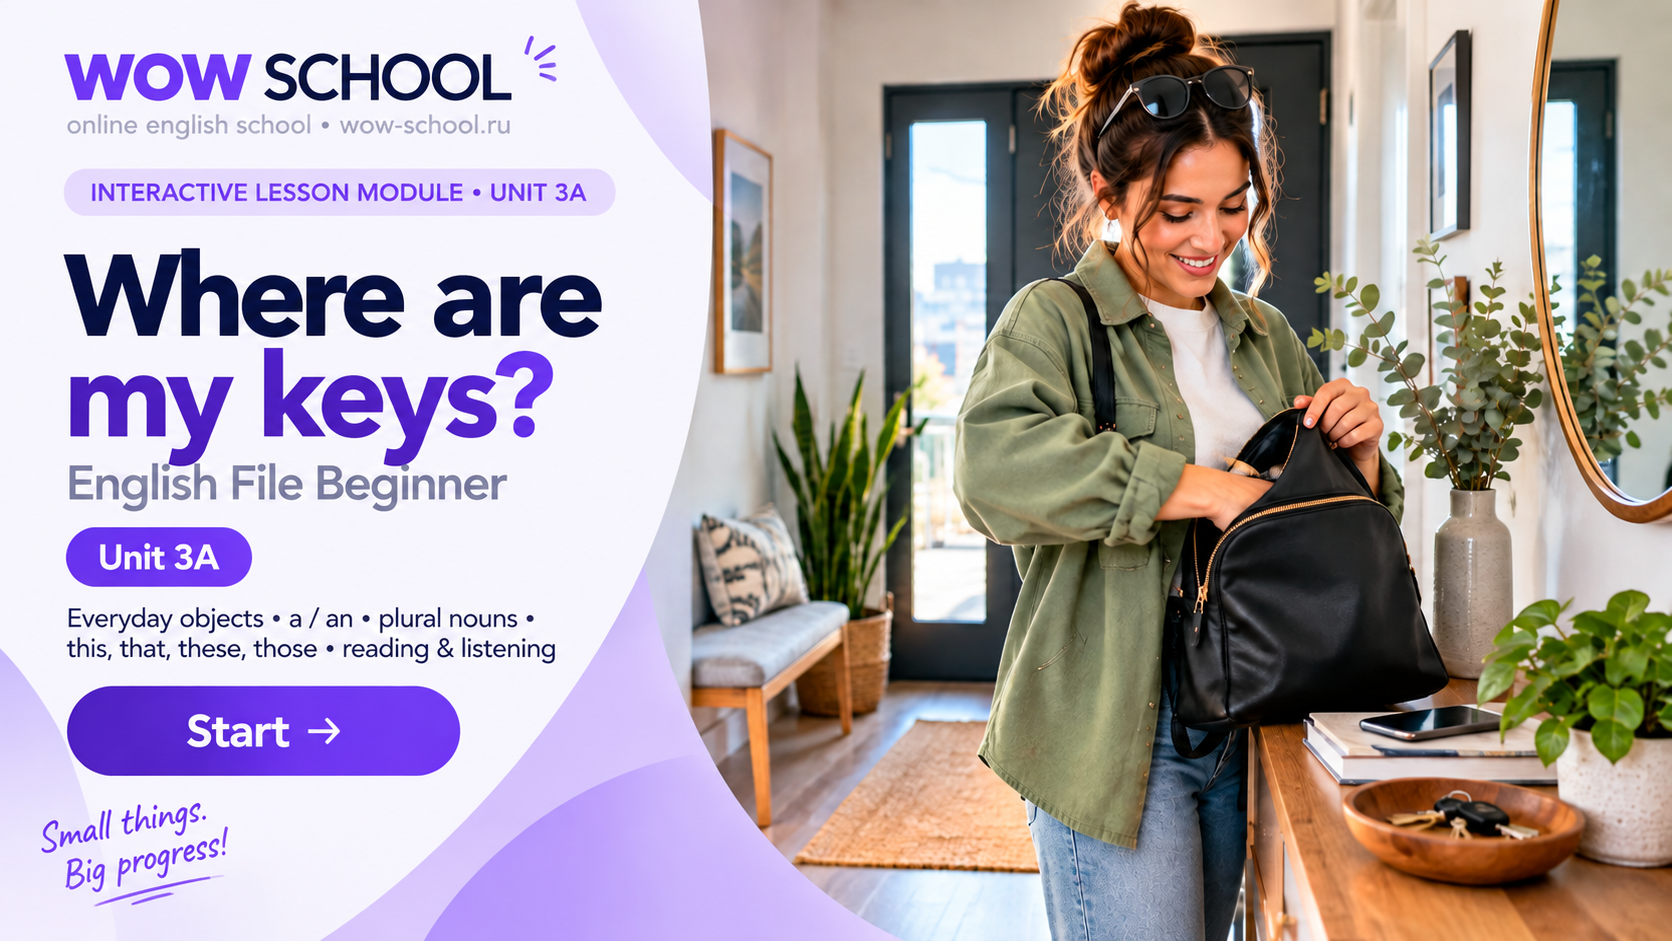
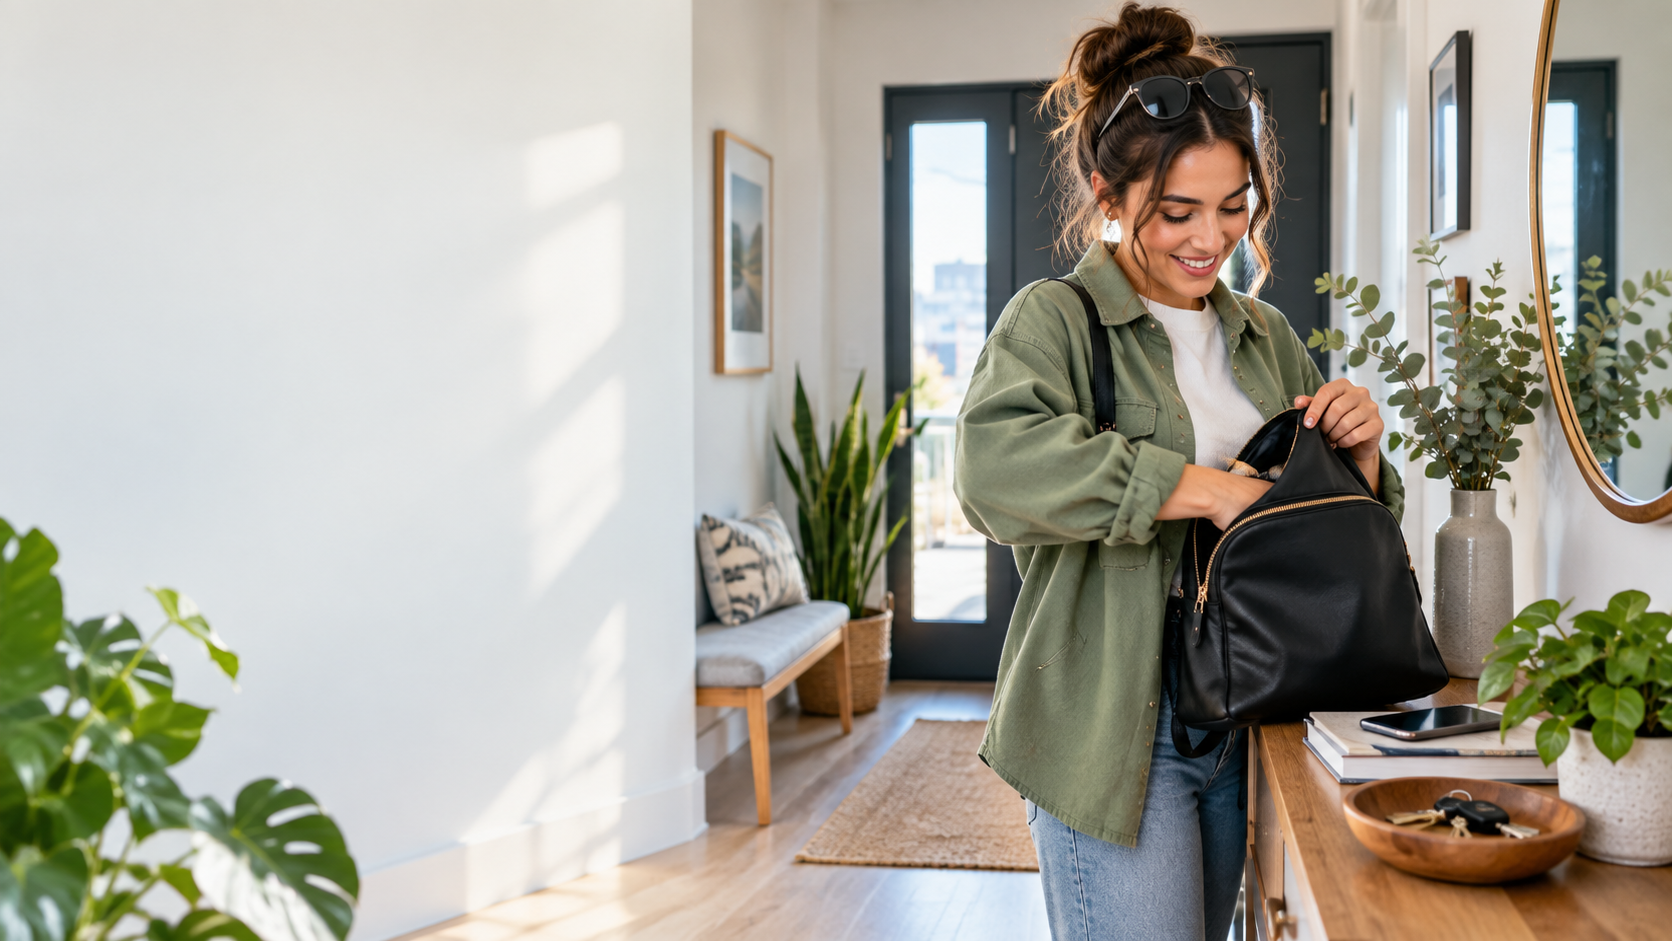
24/09

diff --git a/Beginner_Unit3A_Where_are_my_keys/index-standalone.html b/Beginner_Unit3A_Where_are_my_keys/index-standalone.html
@@ -15,14 +15,14 @@
   <meta property="og:site_name" content="WOW SCHOOL" />
   <meta property="og:title" content="WOW SCHOOL · Beginner · Unit 3A · Where are my keys?" />
   <meta property="og:description" content="Interactive review module: small things, singular and plural nouns, a/an, plural endings, reading and listening." />
-  <meta property="og:image" content="https://wow-school.github.io/module_beginner/Beginner_Unit3A_Where_are_my_keys/preview-unit3a-v2.png?v=2" />
-  <meta property="og:image:secure_url" content="https://wow-school.github.io/module_beginner/Beginner_Unit3A_Where_are_my_keys/preview-unit3a-v2.png?v=2" />
+  <meta property="og:image" content="https://wow-school.github.io/module_beginner/Beginner_Unit3A_Where_are_my_keys/preview-unit3a-final.png?v=4" />
+  <meta property="og:image:secure_url" content="https://wow-school.github.io/module_beginner/Beginner_Unit3A_Where_are_my_keys/preview-unit3a-final.png?v=4" />
   <meta property="og:image:type" content="image/png" />
   <meta property="og:image:width" content="1600" />
   <meta property="og:image:height" content="900" />
   <meta name="twitter:card" content="summary_large_image" />
   <meta name="twitter:title" content="WOW SCHOOL · Beginner · Unit 3A · Where are my keys?" />
-  <meta name="twitter:image" content="https://wow-school.github.io/module_beginner/Beginner_Unit3A_Where_are_my_keys/preview-unit3a-v2.png?v=2" />
+  <meta name="twitter:image" content="https://wow-school.github.io/module_beginner/Beginner_Unit3A_Where_are_my_keys/preview-unit3a-final.png?v=4" />
   <link rel="alternate" type="application/json+oembed" href="https://wow-school.github.io/module_beginner/Beginner_Unit3A_Where_are_my_keys/oembed.json" />
 
   <title>WOW SCHOOL · Beginner · Unit 3A · Where are my keys?</title>

diff --git a/Beginner_Unit3A_Where_are_my_keys/index.html b/Beginner_Unit3A_Where_are_my_keys/index.html
@@ -15,14 +15,14 @@
   <meta property="og:site_name" content="WOW SCHOOL" />
   <meta property="og:title" content="WOW SCHOOL · Beginner · Unit 3A · Where are my keys?" />
   <meta property="og:description" content="Interactive review module: small things, singular and plural nouns, a/an, plural endings, reading and listening." />
-  <meta property="og:image" content="https://wow-school.github.io/module_beginner/Beginner_Unit3A_Where_are_my_keys/preview-unit3a-v2.png?v=2" />
-  <meta property="og:image:secure_url" content="https://wow-school.github.io/module_beginner/Beginner_Unit3A_Where_are_my_keys/preview-unit3a-v2.png?v=2" />
+  <meta property="og:image" content="https://wow-school.github.io/module_beginner/Beginner_Unit3A_Where_are_my_keys/preview-unit3a-final.png?v=4" />
+  <meta property="og:image:secure_url" content="https://wow-school.github.io/module_beginner/Beginner_Unit3A_Where_are_my_keys/preview-unit3a-final.png?v=4" />
   <meta property="og:image:type" content="image/png" />
   <meta property="og:image:width" content="1600" />
   <meta property="og:image:height" content="900" />
   <meta name="twitter:card" content="summary_large_image" />
   <meta name="twitter:title" content="WOW SCHOOL · Beginner · Unit 3A · Where are my keys?" />
-  <meta name="twitter:image" content="https://wow-school.github.io/module_beginner/Beginner_Unit3A_Where_are_my_keys/preview-unit3a-v2.png?v=2" />
+  <meta name="twitter:image" content="https://wow-school.github.io/module_beginner/Beginner_Unit3A_Where_are_my_keys/preview-unit3a-final.png?v=4" />
   <link rel="alternate" type="application/json+oembed" href="https://wow-school.github.io/module_beginner/Beginner_Unit3A_Where_are_my_keys/oembed.json" />
 
   <title>WOW SCHOOL · Beginner · Unit 3A · Where are my keys?</title>

diff --git a/Beginner_Unit3A_Where_are_my_keys/CHANGELOG_UPGRADE.md b/Beginner_Unit3A_Where_are_my_keys/CHANGELOG_UPGRADE.md
@@ -40,3 +40,8 @@
 - Module now always opens on the welcome slide, while saved answers remain stored.
 - Added a new unique preview filename (`preview-unit3a-v2.png`) and updated OG/Twitter/oEmbed references to bypass cached wrong thumbnails.
 - Removed shake/scale feedback and transform-based interaction movement that could make the whole module look like it was trembling after an answer.
+
+## Final preview correction
+- Replaced the module social/embed preview with the approved branded Unit 3A cover.
+- Updated Open Graph, Twitter card, and oEmbed thumbnail references to `preview-unit3a-final.png?v=4`.
+- `preview.png` now contains the same approved artwork for compatibility with platforms that still request the legacy filename.

diff --git a/Beginner_Unit3A_Where_are_my_keys/README.md b/Beginner_Unit3A_Where_are_my_keys/README.md
@@ -20,6 +20,7 @@ module_beginner/
 │   ├── app.js
 │   ├── styles.css
 │   ├── preview.png
+│   ├── preview-unit3a-final.png
 │   ├── oembed.json
 │   ├── iframe.txt
 │   ├── VISUAL_PLAN.md
